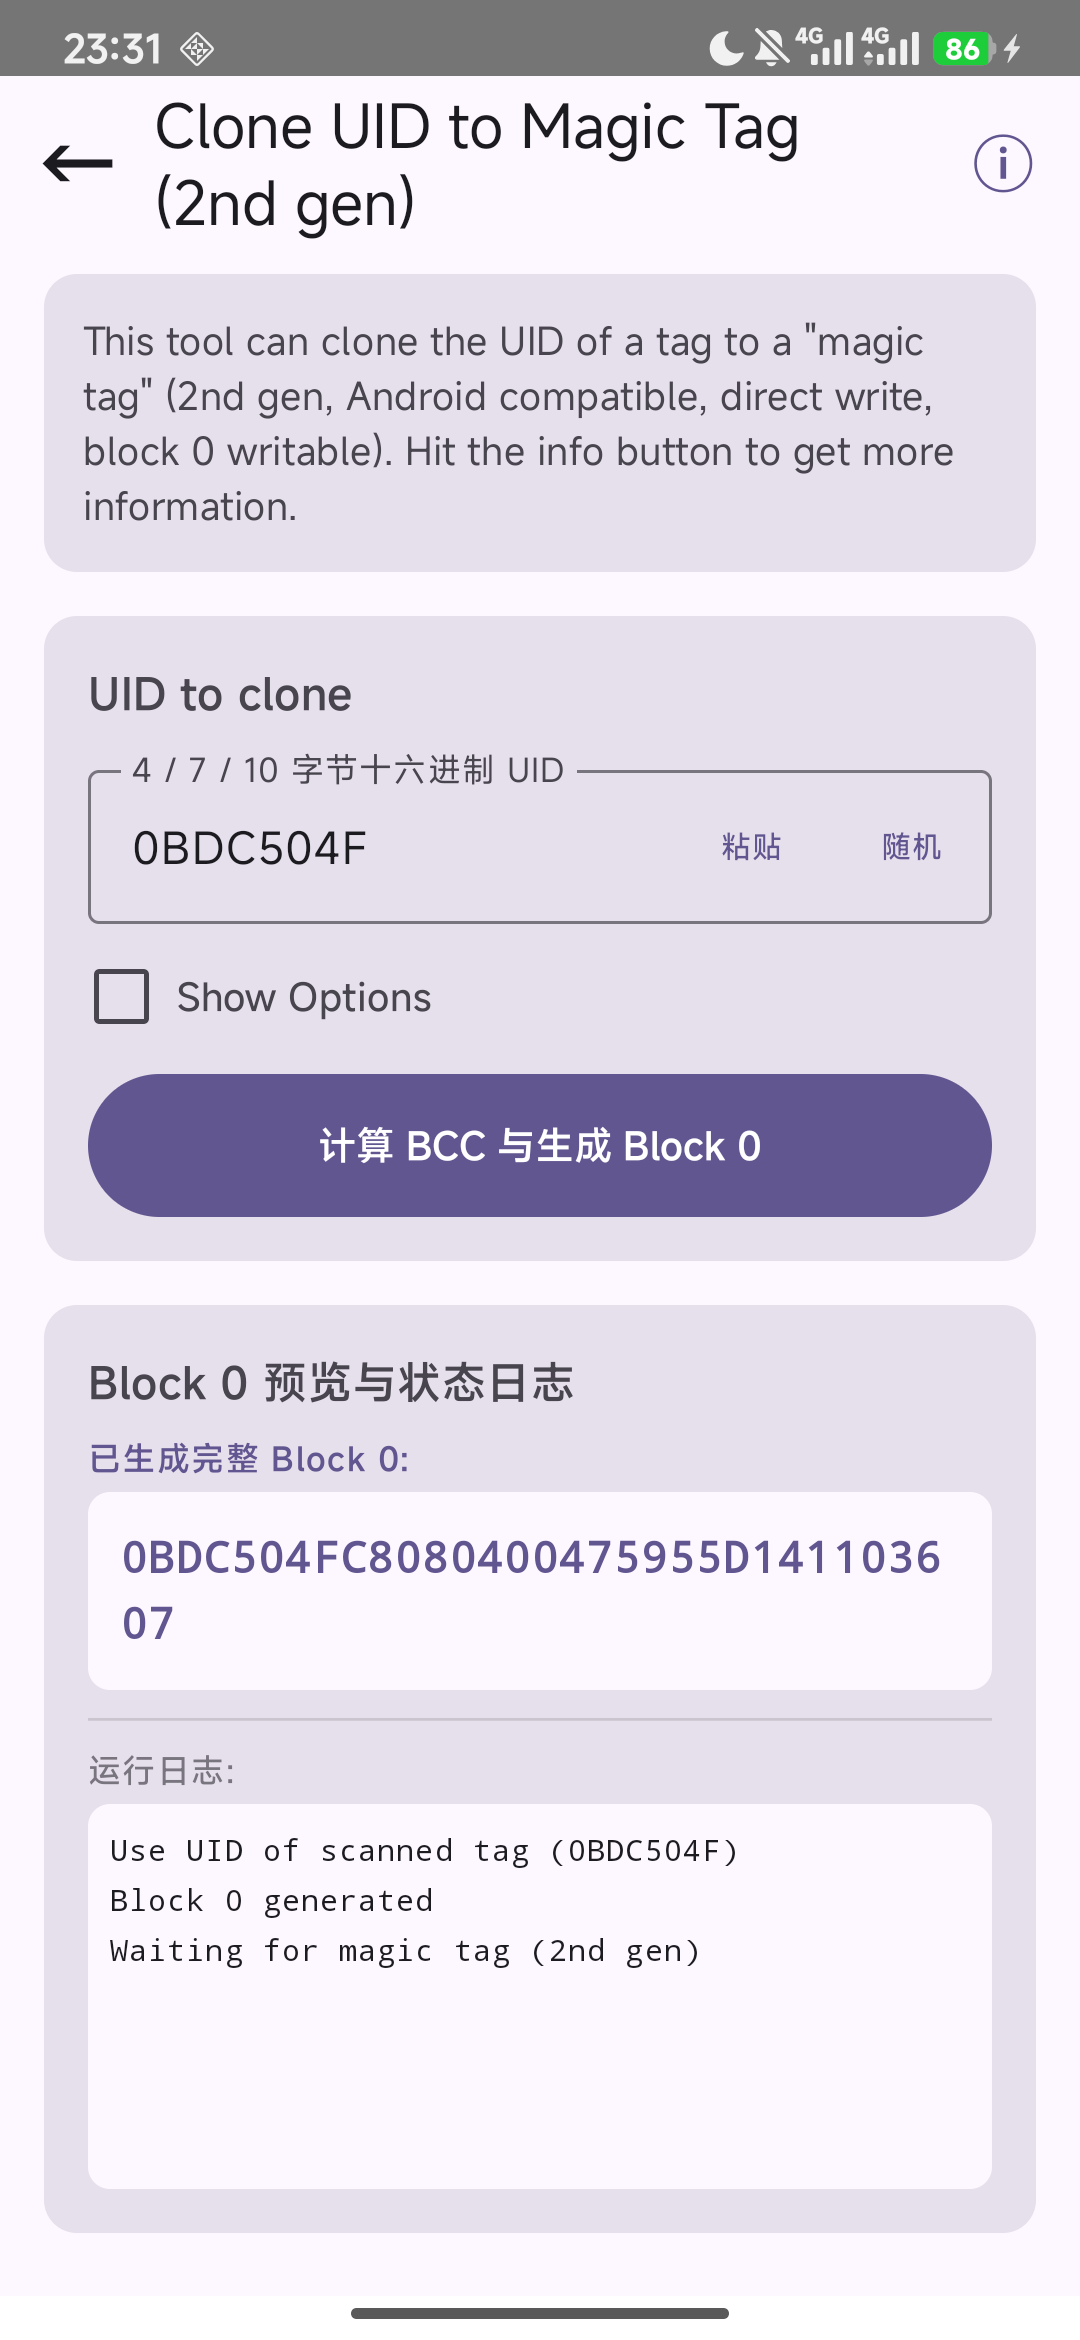
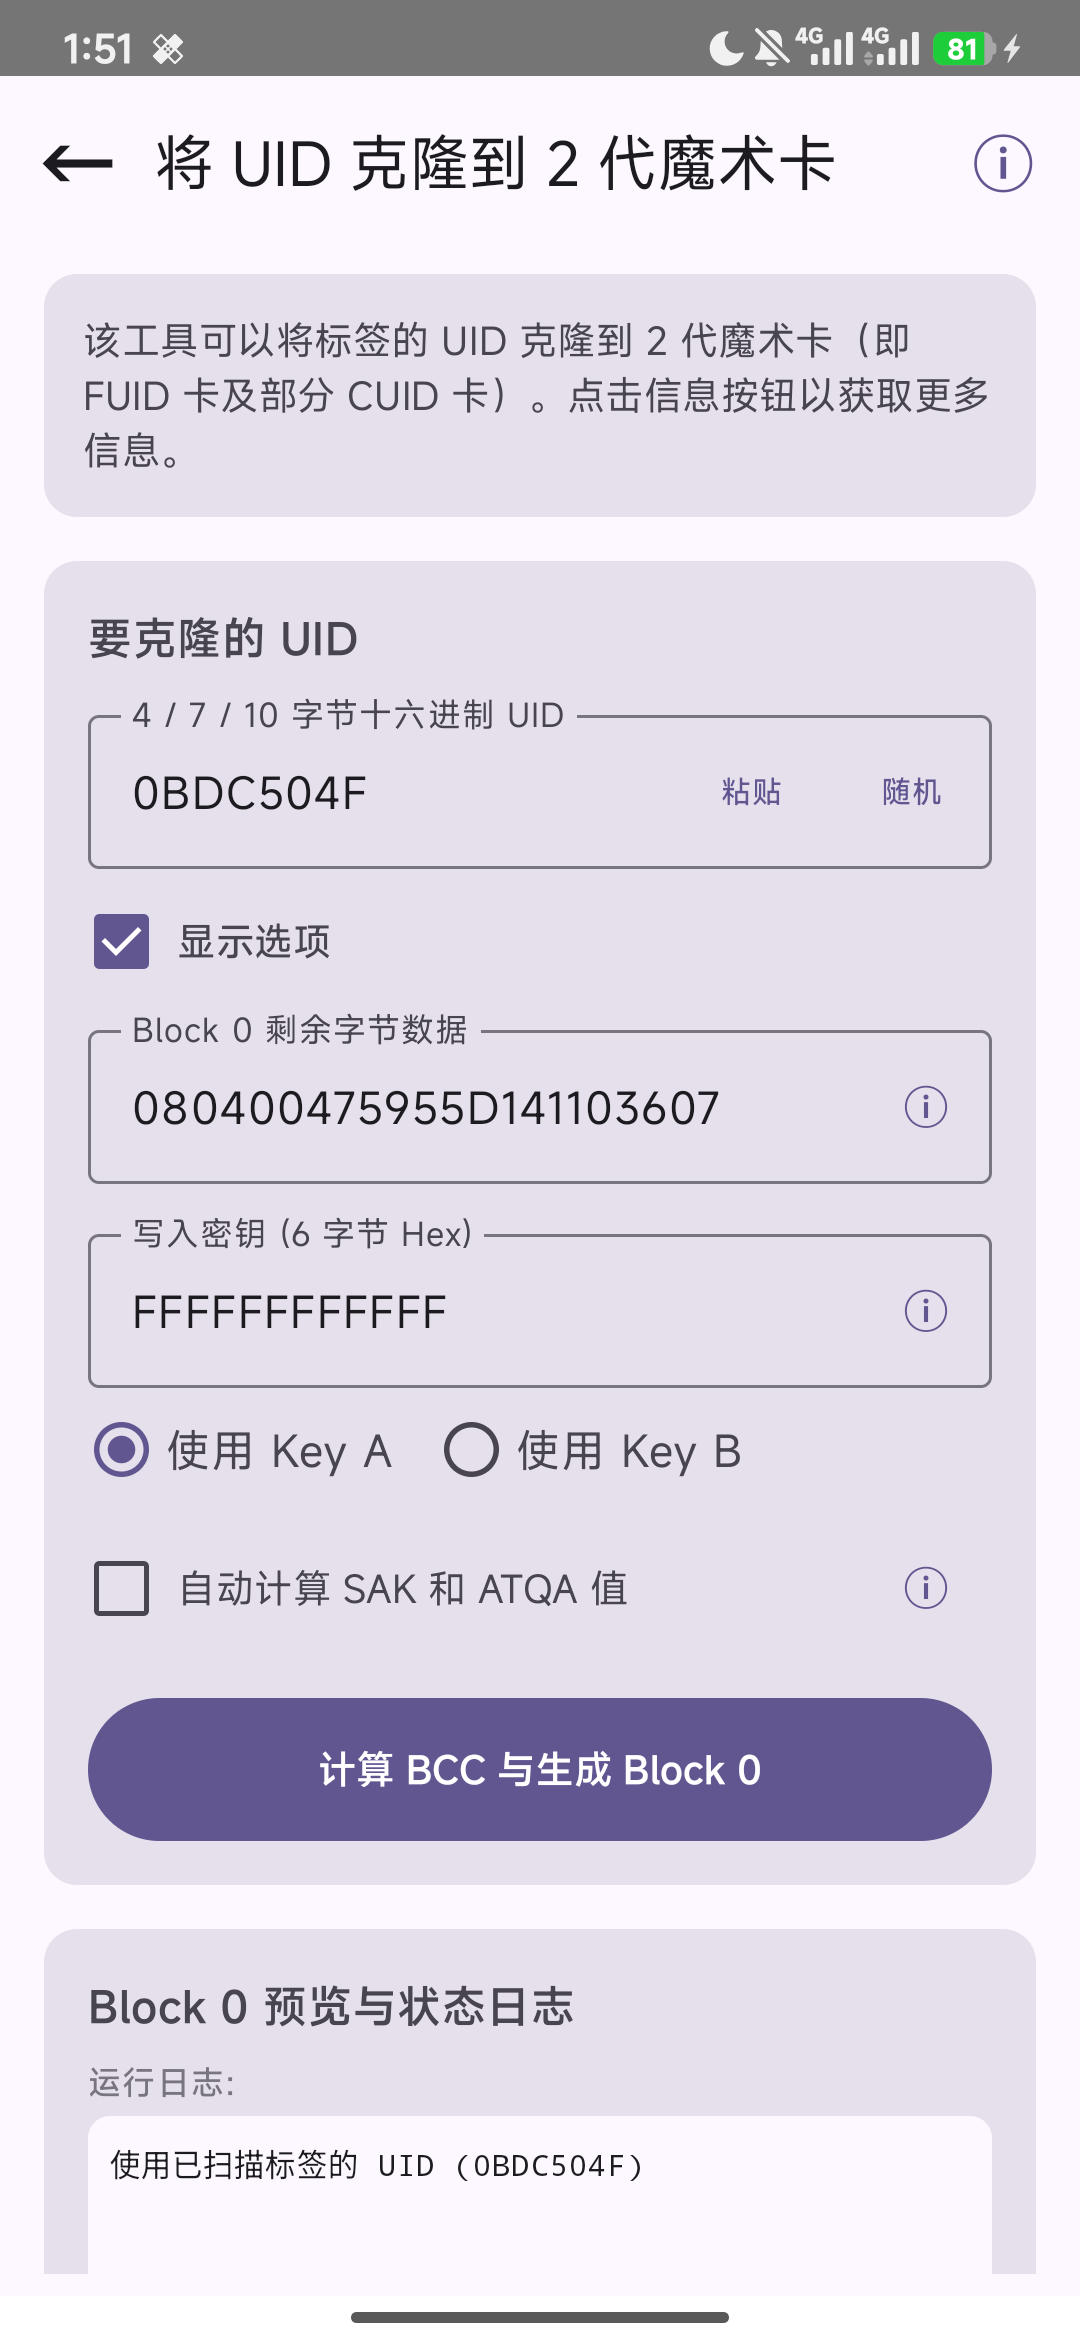
fix(cloneuid): 补齐 CloneUidTool 原版选项弹窗与 Block 0 状态链路并增加 SAK/ATQA 单元测试

diff --git a/Mifare Classic Tool/app/src/main/java/de/syss/MifareClassicTool/Activities/CloneUidTool.kt b/Mifare Classic Tool/app/src/main/java/de/syss/MifareClassicTool/Activities/CloneUidTool.kt
@@ -72,16 +72,23 @@ class CloneUidTool : BasicActivity() {
             initialLogs.add(getString(R.string.text_use_uid_of_scanned_tag) + " ($uid)")
         }
 
+        val showOptionsExtra = intent.getBooleanExtra("extra_show_options", false)
+        val autoCalcExtra = intent.getBooleanExtra("extra_auto_calc", false)
+
         mUiState.value = CloneUidUiState(
             uidInput = initialUid,
             block0RestInput = mBlock0Rest,
             writeKeyInput = mBlock0Key,
             useKeyB = false,
             autoCalcSakAtqa = false,
-            showOptions = false,
+            showOptions = showOptionsExtra,
             block0Complete = null,
             statusLogs = initialLogs
         )
+
+        if (autoCalcExtra) {
+            onCalculateBlock0(null)
+        }
 
         setContent {
             MctTheme {
@@ -210,6 +217,7 @@ class CloneUidTool : BasicActivity() {
                 mBlock0Complete = mBlock0Complete.substring(0, sakStart) +
                         sakAndAtqa +
                         mBlock0Complete.substring(sakStart + sakAndAtqa.length)
+                mUiState.value = mUiState.value.copy(block0Complete = mBlock0Complete)
             }
         }
         appendToLog(getString(R.string.text_data_to_write) + " " + mBlock0Complete)
@@ -244,48 +252,6 @@ class CloneUidTool : BasicActivity() {
         appendToLog(getString(R.string.text_rescan_tag_to_check))
         mStatus = Status.CLONED
         reader.close()
-    }
-
-    private fun calcSakAtqa(uidLen: Int, tagSize: Int): String? {
-        if ((uidLen != 4 && uidLen != 7) || (
-                    tagSize != MifareClassic.SIZE_MINI &&
-                            tagSize != MifareClassic.SIZE_1K &&
-                            tagSize != MifareClassic.SIZE_2K &&
-                            tagSize != MifareClassic.SIZE_4K)
-        ) {
-            return null
-        }
-
-        var atqa: String? = null
-        if (uidLen == 4 && (tagSize == MifareClassic.SIZE_1K ||
-                    tagSize == MifareClassic.SIZE_2K ||
-                    tagSize == MifareClassic.SIZE_MINI)
-        ) {
-            atqa = "0400"
-        } else if (uidLen == 4 && tagSize == MifareClassic.SIZE_4K) {
-            atqa = "0200"
-        } else if (uidLen == 7 && (tagSize == MifareClassic.SIZE_1K ||
-                    tagSize == MifareClassic.SIZE_2K ||
-                    tagSize == MifareClassic.SIZE_MINI)
-        ) {
-            atqa = "4400"
-        } else if (uidLen == 7 && tagSize == MifareClassic.SIZE_4K) {
-            atqa = "4200"
-        }
-
-        var sak: String? = null
-        if (tagSize == MifareClassic.SIZE_MINI) {
-            sak = "09"
-        } else if (tagSize == MifareClassic.SIZE_1K || tagSize == MifareClassic.SIZE_2K) {
-            sak = "08"
-        } else if (tagSize == MifareClassic.SIZE_4K) {
-            sak = "18"
-        }
-
-        if (sak == null || atqa == null) {
-            return null
-        }
-        return sak + atqa
     }
 
     private fun showBlock0Warning() {
@@ -346,5 +312,83 @@ class CloneUidTool : BasicActivity() {
             .setIcon(android.R.drawable.ic_dialog_info)
             .setPositiveButton(R.string.action_ok) { _, _ -> }
             .show()
+    }
+
+    @Suppress("UNUSED_PARAMETER")
+    fun onShowBlock0RestInfo(view: View? = null) {
+        AlertDialog.Builder(this)
+            .setTitle(R.string.dialog_rest_of_block_0_title)
+            .setMessage(R.string.dialog_rest_of_block_0)
+            .setIcon(android.R.drawable.ic_dialog_info)
+            .setPositiveButton(R.string.action_ok) { _, _ -> }
+            .show()
+    }
+
+    @Suppress("UNUSED_PARAMETER")
+    fun onShowWriteKeyInfo(view: View? = null) {
+        AlertDialog.Builder(this)
+            .setTitle(R.string.dialog_key_for_block_0_title)
+            .setMessage(R.string.dialog_key_for_block_0)
+            .setIcon(android.R.drawable.ic_dialog_info)
+            .setPositiveButton(R.string.action_ok) { _, _ -> }
+            .show()
+    }
+
+    @Suppress("UNUSED_PARAMETER")
+    fun onShowSakAtqaInfo(view: View? = null) {
+        AlertDialog.Builder(this)
+            .setTitle(R.string.dialog_auto_calc_sak_atqa_title)
+            .setMessage(R.string.dialog_auto_calc_sak_atqa)
+            .setIcon(android.R.drawable.ic_dialog_info)
+            .setPositiveButton(R.string.action_ok) { _, _ -> }
+            .show()
+    }
+
+    companion object {
+        /**
+         * Calculate a SAK and ATQA value according to NXP's specifications.
+         */
+        @JvmStatic
+        fun calcSakAtqa(uidLen: Int, tagSize: Int): String? {
+            if ((uidLen != 4 && uidLen != 7) || (
+                        tagSize != MifareClassic.SIZE_MINI &&
+                                tagSize != MifareClassic.SIZE_1K &&
+                                tagSize != MifareClassic.SIZE_2K &&
+                                tagSize != MifareClassic.SIZE_4K)
+            ) {
+                return null
+            }
+
+            var atqa: String? = null
+            if (uidLen == 4 && (tagSize == MifareClassic.SIZE_1K ||
+                        tagSize == MifareClassic.SIZE_2K ||
+                        tagSize == MifareClassic.SIZE_MINI)
+            ) {
+                atqa = "0400"
+            } else if (uidLen == 4 && tagSize == MifareClassic.SIZE_4K) {
+                atqa = "0200"
+            } else if (uidLen == 7 && (tagSize == MifareClassic.SIZE_1K ||
+                        tagSize == MifareClassic.SIZE_2K ||
+                        tagSize == MifareClassic.SIZE_MINI)
+            ) {
+                atqa = "4400"
+            } else if (uidLen == 7 && tagSize == MifareClassic.SIZE_4K) {
+                atqa = "4200"
+            }
+
+            var sak: String? = null
+            if (tagSize == MifareClassic.SIZE_MINI) {
+                sak = "09"
+            } else if (tagSize == MifareClassic.SIZE_1K || tagSize == MifareClassic.SIZE_2K) {
+                sak = "08"
+            } else if (tagSize == MifareClassic.SIZE_4K) {
+                sak = "18"
+            }
+
+            if (sak == null || atqa == null) {
+                return null
+            }
+            return sak + atqa
+        }
     }
 }

diff --git a/Mifare Classic Tool/app/src/main/java/de/syss/MifareClassicTool/ui/cloneuid/CloneUidScreen.kt b/Mifare Classic Tool/app/src/main/java/de/syss/MifareClassicTool/ui/cloneuid/CloneUidScreen.kt
@@ -73,9 +73,12 @@ fun CloneUidScreen(
     onPasteUid: () -> Unit,
     onRandomUid: () -> Unit,
     onCalculateBlock0: () -> Unit,
-    onShowInfo: () -> Unit
+    onShowInfo: () -> Unit = {}
 ) {
     var showInfoDialog by remember { mutableStateOf(false) }
+    var showBlock0RestInfoDialog by remember { mutableStateOf(false) }
+    var showWriteKeyInfoDialog by remember { mutableStateOf(false) }
+    var showSakAtqaInfoDialog by remember { mutableStateOf(false) }
 
     Scaffold(
         topBar = {
@@ -201,6 +204,19 @@ fun CloneUidScreen(
                             label = { Text("Block 0 剩余字节数据") },
                             placeholder = { Text("080400475955D141103607") },
                             singleLine = true,
+                            trailingIcon = {
+                                IconButton(
+                                    onClick = { showBlock0RestInfoDialog = true },
+                                    modifier = Modifier.testTag("btn_info_block0_rest")
+                                ) {
+                                    Text(
+                                        text = "ⓘ",
+                                        style = MaterialTheme.typography.titleMedium,
+                                        color = MaterialTheme.colorScheme.primary,
+                                        fontWeight = FontWeight.Bold
+                                    )
+                                }
+                            },
                             modifier = Modifier
                                 .fillMaxWidth()
                                 .testTag("input_block0_rest")
@@ -217,6 +233,19 @@ fun CloneUidScreen(
                             label = { Text("写入密钥 (6 字节 Hex)") },
                             placeholder = { Text("FFFFFFFFFFFF") },
                             singleLine = true,
+                            trailingIcon = {
+                                IconButton(
+                                    onClick = { showWriteKeyInfoDialog = true },
+                                    modifier = Modifier.testTag("btn_info_write_key")
+                                ) {
+                                    Text(
+                                        text = "ⓘ",
+                                        style = MaterialTheme.typography.titleMedium,
+                                        color = MaterialTheme.colorScheme.primary,
+                                        fontWeight = FontWeight.Bold
+                                    )
+                                }
+                            },
                             modifier = Modifier
                                 .fillMaxWidth()
                                 .testTag("input_write_key")
@@ -276,8 +305,20 @@ fun CloneUidScreen(
                             Spacer(modifier = Modifier.width(8.dp))
                             Text(
                                 text = stringResource(R.string.action_calc_sak_atqa),
-                                style = MaterialTheme.typography.bodyMedium
+                                style = MaterialTheme.typography.bodyMedium,
+                                modifier = Modifier.weight(1f)
                             )
+                            IconButton(
+                                onClick = { showSakAtqaInfoDialog = true },
+                                modifier = Modifier.testTag("btn_info_sak_atqa")
+                            ) {
+                                Text(
+                                    text = "ⓘ",
+                                    style = MaterialTheme.typography.titleMedium,
+                                    color = MaterialTheme.colorScheme.primary,
+                                    fontWeight = FontWeight.Bold
+                                )
+                            }
                         }
                     }
                 }
@@ -375,6 +416,45 @@ fun CloneUidScreen(
             text = { Text(stringResource(R.string.dialog_gen2_tags_info)) },
             confirmButton = {
                 TextButton(onClick = { showInfoDialog = false }) {
+                    Text(stringResource(R.string.action_ok))
+                }
+            }
+        )
+    }
+
+    if (showBlock0RestInfoDialog) {
+        AlertDialog(
+            onDismissRequest = { showBlock0RestInfoDialog = false },
+            title = { Text(stringResource(R.string.dialog_rest_of_block_0_title)) },
+            text = { Text(stringResource(R.string.dialog_rest_of_block_0)) },
+            confirmButton = {
+                TextButton(onClick = { showBlock0RestInfoDialog = false }) {
+                    Text(stringResource(R.string.action_ok))
+                }
+            }
+        )
+    }
+
+    if (showWriteKeyInfoDialog) {
+        AlertDialog(
+            onDismissRequest = { showWriteKeyInfoDialog = false },
+            title = { Text(stringResource(R.string.dialog_key_for_block_0_title)) },
+            text = { Text(stringResource(R.string.dialog_key_for_block_0)) },
+            confirmButton = {
+                TextButton(onClick = { showWriteKeyInfoDialog = false }) {
+                    Text(stringResource(R.string.action_ok))
+                }
+            }
+        )
+    }
+
+    if (showSakAtqaInfoDialog) {
+        AlertDialog(
+            onDismissRequest = { showSakAtqaInfoDialog = false },
+            title = { Text(stringResource(R.string.dialog_auto_calc_sak_atqa_title)) },
+            text = { Text(stringResource(R.string.dialog_auto_calc_sak_atqa)) },
+            confirmButton = {
+                TextButton(onClick = { showSakAtqaInfoDialog = false }) {
                     Text(stringResource(R.string.action_ok))
                 }
             }

diff --git a/Mifare Classic Tool/app/src/androidTest/java/de/syss/MifareClassicTool/CloneUidToolComposeTest.kt b/Mifare Classic Tool/app/src/androidTest/java/de/syss/MifareClassicTool/CloneUidToolComposeTest.kt
@@ -86,9 +86,13 @@ class CloneUidToolComposeTest {
 
         // Advanced options inputs visible when showOptions = true
         composeTestRule.onNodeWithTag("input_block0_rest").assertIsDisplayed()
+        composeTestRule.onNodeWithTag("btn_info_block0_rest").assertIsDisplayed()
         composeTestRule.onNodeWithTag("input_write_key").assertIsDisplayed()
+        composeTestRule.onNodeWithTag("btn_info_write_key").assertIsDisplayed()
         composeTestRule.onNodeWithTag("rb_key_a").assertIsDisplayed()
         composeTestRule.onNodeWithTag("rb_key_b").assertIsDisplayed()
+        composeTestRule.onNodeWithTag("cb_sak_atqa").assertIsDisplayed()
+        composeTestRule.onNodeWithTag("btn_info_sak_atqa").assertIsDisplayed()
 
         // Block 0 complete preview is visible
         composeTestRule.onNodeWithTag("text_block0_complete").assertIsDisplayed()

diff --git a/Mifare Classic Tool/app/src/test/java/de/syss/MifareClassicTool/BaselineTest.java b/Mifare Classic Tool/app/src/test/java/de/syss/MifareClassicTool/BaselineTest.java
@@ -8,6 +8,8 @@ import static org.junit.Assert.assertTrue;
 
 import org.junit.Test;
 
+import de.syss.MifareClassicTool.Activities.CloneUidTool;
+
 public class BaselineTest {
 
     @Test
@@ -322,5 +324,30 @@ public class BaselineTest {
         // Invalid length
         assertFalse(Common.isValidBlock0("SHORT", 4, 1024, true));
         assertFalse(Common.isValidBlock0(null, 4, 1024, true));
+    }
+
+    @Test
+    public void testCloneUidCalcSakAtqa() {
+        // 4-byte UID for 1K (1024 bytes): SAK=08, ATQA=0400 -> 080400
+        assertEquals("080400", CloneUidTool.calcSakAtqa(4, 1024));
+
+        // 4-byte UID for 2K (2048 bytes): SAK=08, ATQA=0400 -> 080400
+        assertEquals("080400", CloneUidTool.calcSakAtqa(4, 2048));
+
+        // 4-byte UID for 4K (4096 bytes): SAK=18, ATQA=0200 -> 180200
+        assertEquals("180200", CloneUidTool.calcSakAtqa(4, 4096));
+
+        // 4-byte UID for Mini (320 bytes): SAK=09, ATQA=0400 -> 090400
+        assertEquals("090400", CloneUidTool.calcSakAtqa(4, 320));
+
+        // 7-byte UID for 1K: SAK=08, ATQA=4400 -> 084400
+        assertEquals("084400", CloneUidTool.calcSakAtqa(7, 1024));
+
+        // 7-byte UID for 4K: SAK=18, ATQA=4200 -> 184200
+        assertEquals("184200", CloneUidTool.calcSakAtqa(7, 4096));
+
+        // Unsupported UID length or tag size returns null
+        assertNull(CloneUidTool.calcSakAtqa(10, 1024));
+        assertNull(CloneUidTool.calcSakAtqa(4, 512));
     }
 }
